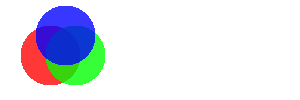
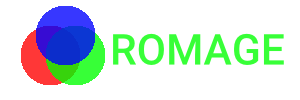
bugfix on readme

Changed region(s): [[0.36, 0.33, 0.96, 0.66]]

diff --git a/examples/text.rs b/examples/text.rs
@@ -26,7 +26,7 @@ fn main() -> Result<(), Box<dyn std::error::Error>> {
         config.height / 2 - 25,
         50,
         text,
-        WHITE,
+        Rgba([0, 255, 0, 200]),
     );
 
     image

diff --git a/README.md b/README.md
@@ -1,4 +1,4 @@
-![logo](./images/logo.png)
+![logo](./images/4.png)
 
 [![Crates.io](https://img.shields.io/crates/v/omage?style=flat-square)](https://crates.io/crates/omage)
 [![Crates.io](https://img.shields.io/crates/d/omage?style=flat-square)](https://crates.io/crates/omage)
@@ -19,7 +19,7 @@ To use `omage` in your Rust project, add the following to your `Cargo.toml` file
 
 ```toml
 [dependencies]
-omage = "0.3.0"
+omage = "0.3.1"
 ```
 
 Then, include it in your Rust code:
@@ -138,7 +138,7 @@ fn main() -> Result<(), Box<dyn std::error::Error>> {
         WIDTH,
         HEIGHT,
         Rgba([255, 255, 255, 0]),
-        None,
+        Some(WHITE),
         "output.png",
         Some("./fonts/Roboto-Medium.ttf"),
     );
@@ -155,7 +155,7 @@ fn main() -> Result<(), Box<dyn std::error::Error>> {
         config.height / 2 - 25,
         50,
         text,
-        WHITE,
+        Rgba([0, 255, 0, 200]),
     );
 
     image
